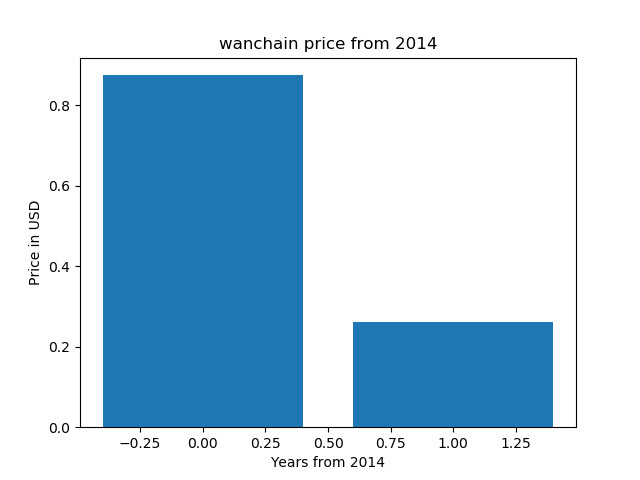
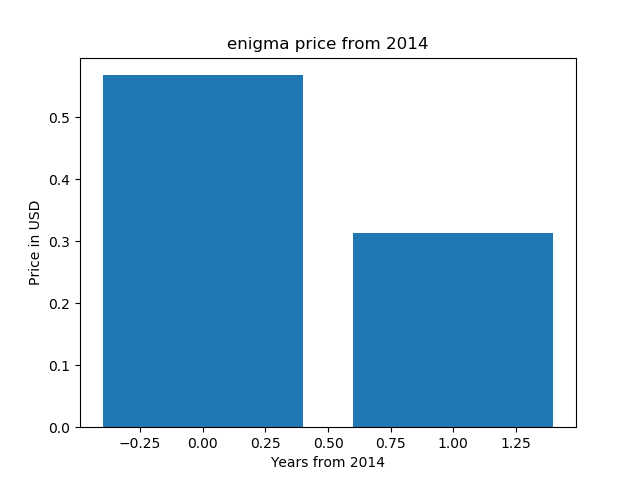
first commit

diff --git a/example.py b/example.py
@@ -10,7 +10,7 @@ from time import gmtime, strftime
 import matplotlib.pyplot as plt
 
 enddate = strftime("%Y%m%d", gmtime())
-r  = requests.get("https://coinmarketcap.com/currencies/wanchain/historical-data/?start=20140101&end={0}".format(enddate))
+r  = requests.get("https://coinmarketcap.com/currencies/enigma/historical-data/?start=20140101&end={0}".format(enddate))
 data = r.text
 
 soup = BeautifulSoup(data, "html.parser")
@@ -44,7 +44,7 @@ print(x)
 
 x = list(range(0, len(prices)))
 
-plt.title('wanchain price from 2014')
+plt.title('enigma price from 2014')
 plt.ylabel('Price in USD')
 plt.xlabel('Years from 2014')
 plt.bar(x, prices)

diff --git a/README.md b/README.md
@@ -1,6 +1,6 @@
-# wanchain price chart 
+# enigma price chart 
 
-wanchain price chart (matplotlib, python)
+enigma price chart (matplotlib, python)
 
 https://pythonprogramminglanguage.com
 
